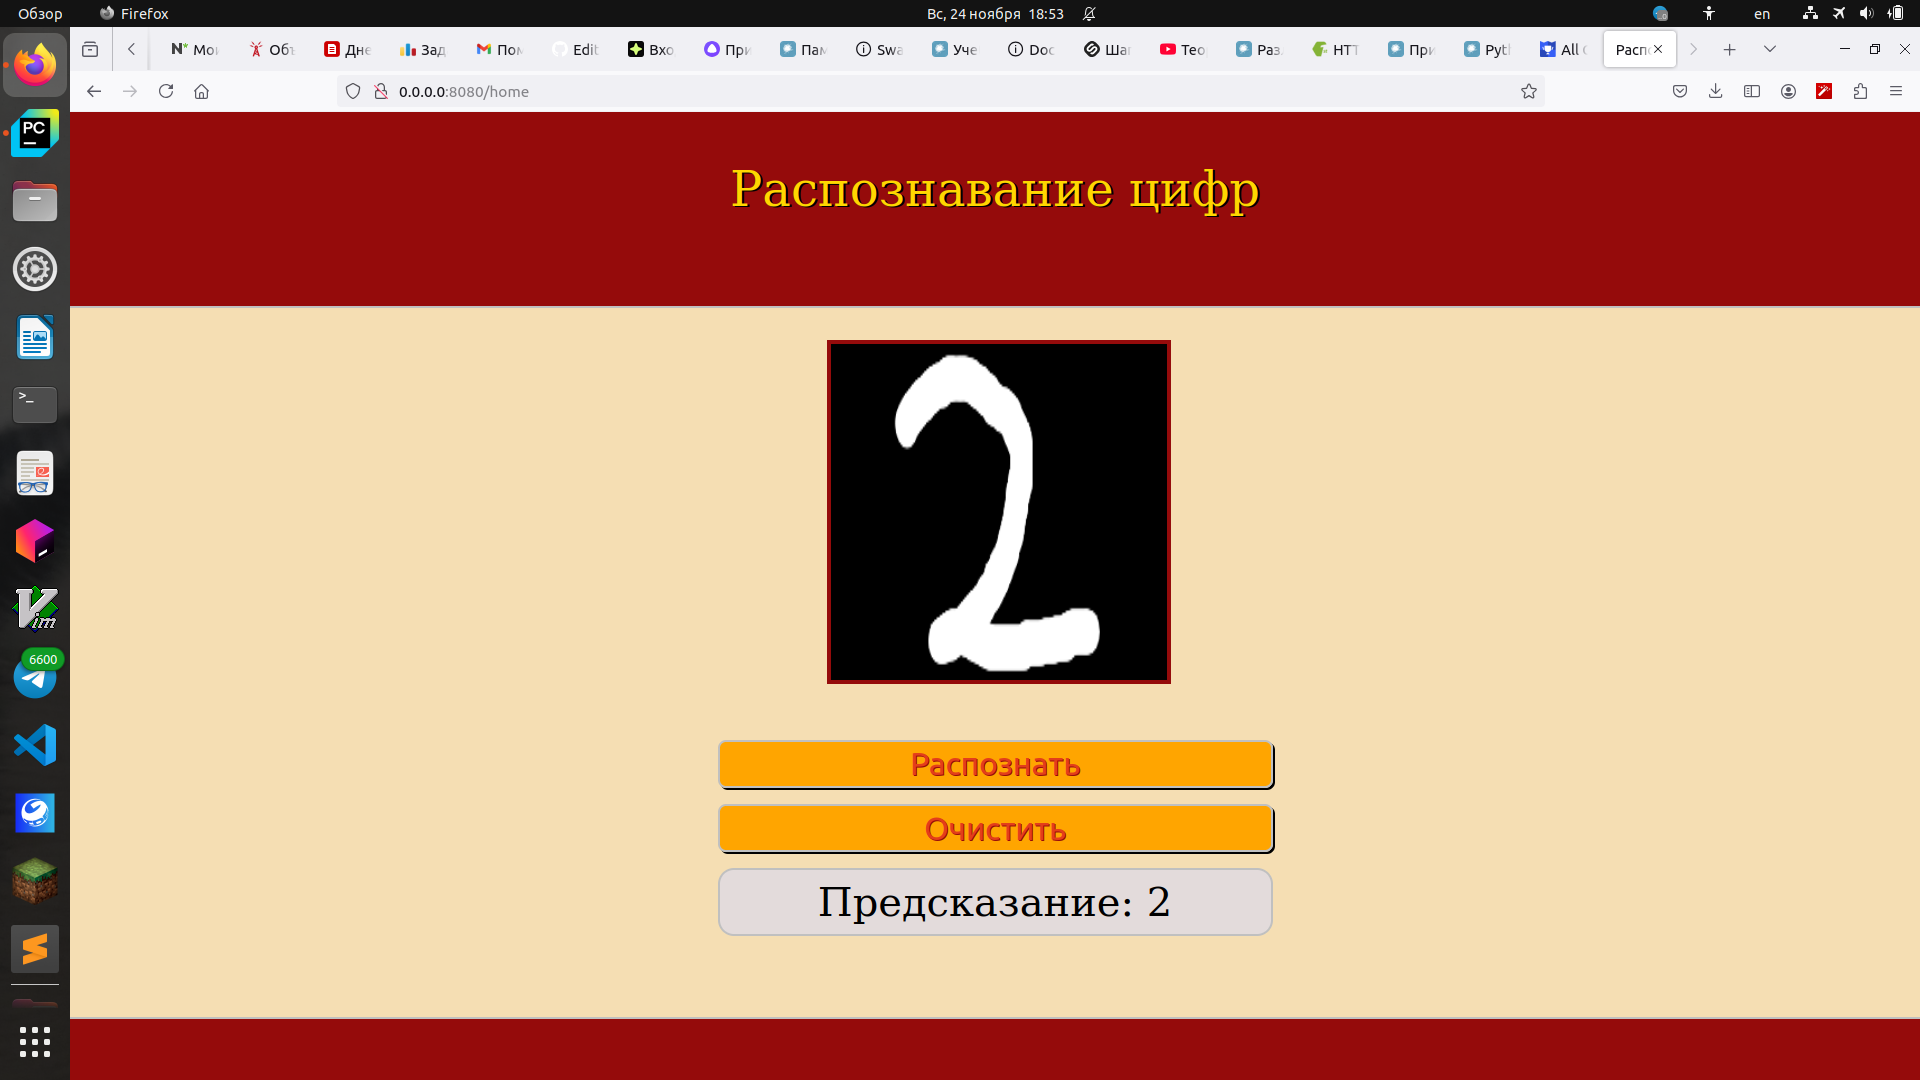
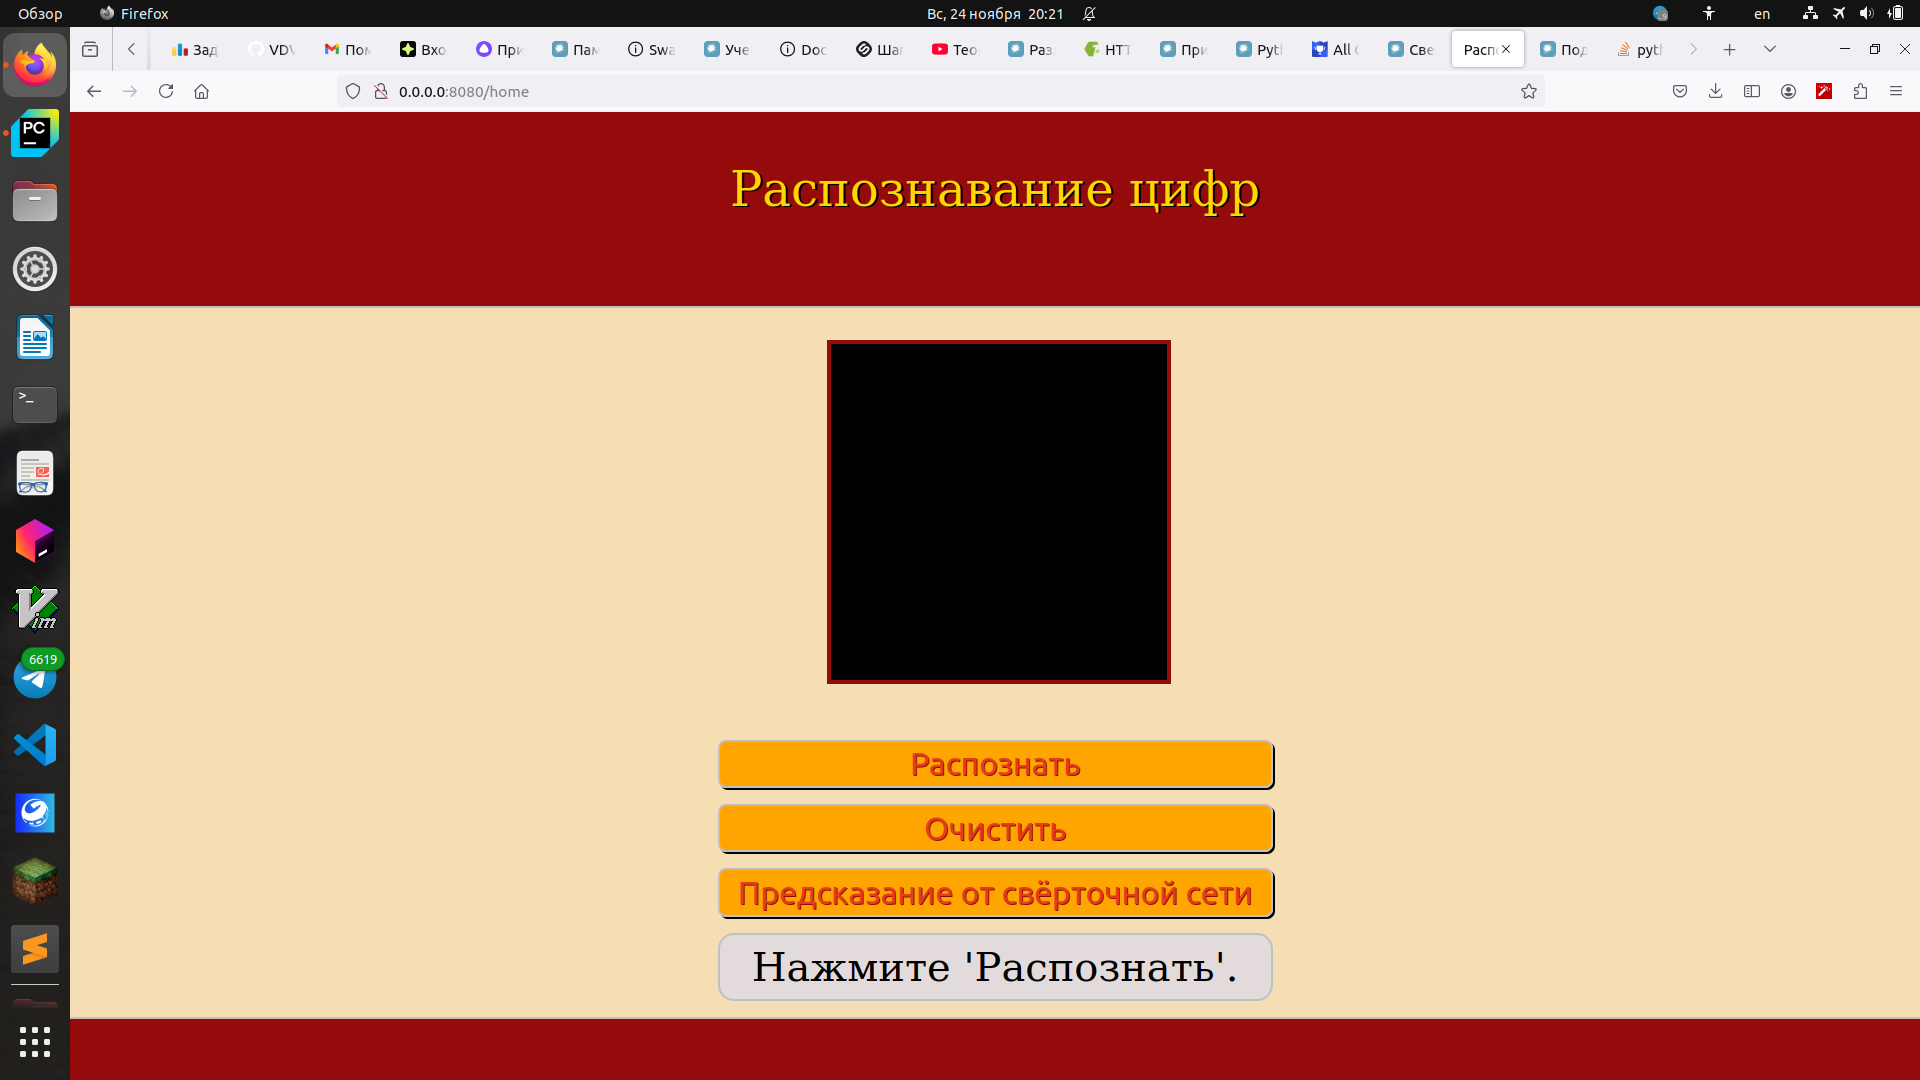
I have begin convolutional_digit_recognition.

diff --git a/code/examples/templates/digit_recognition.html b/code/examples/templates/digit_recognition.html
@@ -139,6 +139,7 @@
         <div>
             <button id="predict_button" class="canvas_button">Распознать</button>
             <button id="clear_button" class="canvas_button">Очистить</button>
+            <button id="convolutional_predict_button" class="canvas_button">Предсказание от свёрточной сети</button>
             <p id="prediction">Нажмите 'Распознать'.</p>
         </div>
     </section>
@@ -171,6 +172,7 @@ obj.canvas.addEventListener("mouseleave", (e) => {
 obj.canvas.addEventListener("mousemove", draw);
 document.getElementById("predict_button").addEventListener("click", predict);
 document.getElementById("clear_button").addEventListener("click", clear);
+document.getElementById("convolutional_predict_button").addEventListener("click", convolutional_predict);
 
 function draw(e) {
     if (obj.drawing) {
@@ -196,6 +198,25 @@ function predict() {
         formData.append("image", blob);
 
         fetch("/prediction", {
+            method: "POST",
+            body: formData,
+        })
+        .then(response => response.json())
+        .then(data => {
+            document.getElementById("prediction").innerText = "Предсказание: " + data.prediction;
+        })
+        .catch(error => {
+            console.error("Ошибка:", error);
+        });
+    });
+}
+
+function convolutional_predict() {
+    obj.canvas.toBlob((blob) => {
+        const formData = new FormData();
+        formData.append("image", blob);
+
+        fetch("/convolutional_prediction", {
             method: "POST",
             body: formData,
         })

diff --git a/code/examples/convolutional_digit_recognition.py b/code/examples/convolutional_digit_recognition.py
@@ -1,0 +1,111 @@
+import numpy as np
+
+import io
+
+from PIL import Image
+
+from pathlib import Path
+
+from keras.api.datasets import mnist
+from keras.api.utils import to_categorical
+from keras.api.models import Sequential, load_model
+from keras.api.layers import Input, Conv2D, MaxPooling2D, Flatten, Dense
+
+from RecognitionNeuroNetwork import RecognitionNeuroNetwork
+
+
+class ConvolutionalDigitRecognition(RecognitionNeuroNetwork):
+    def __init__(self, number_of_training: int = 5) -> None:
+        self.INPUT_SHAPE = (28, 28)                             # Размер изображения в пикселях.
+        self.OPTIMIZER = "adam"                                 # Функция оптимизации при обучении.
+        self.LOSS_FUNCTION = "categorical_crossentropy"  # Функция ошибки.
+        self.METRICS = ["accuracy"]                             # Метрики при обучении (для логирования).
+        self.SAVE_FILE = "convolutional_mnist_model.keras"      # Имя файла для сохранения модели.
+        self.TRAINING_MAX_VALUE: float = 255.0                  # Максимальное значение цвета у пикселя в входных данных.
+        self.BATCH_SIZE = 32                                    # Размер мини-батча для обучения
+
+        self.number_of_training = number_of_training
+        self.layers = [
+            Input(shape=(*self.INPUT_SHAPE, 1)),                    # Принимает данные на входе
+            Conv2D(32, (3, 3), activation='relu'),  # Применяет 32 фильтра 3 x 3 для получение признаков
+            MaxPooling2D((2, 2)),                                   # Выбирает максимальные значения в областях 2 x 2 уменьшая обьём данных
+            Conv2D(64, (3, 3), activation='relu'),  # Применяет 64 фильтра 3 x 3 извлекая более важные принаки
+            MaxPooling2D((2, 2)),                                   # Ещё одна свёртка данных
+            Flatten(),                                              # Преобразует матрицу в вектор для обработки полносвязными слоями
+            Dense(64, activation='relu'),                      # Обрабатывет вектор выделяя итоговые признаки
+            Dense(10, activation='relu')                       # Приводит к формату выходных данных
+        ]
+        #   WILL BE USED
+        self.x_train = None
+        self.x_test = None
+        self.y_train = None
+        self.x_test = None
+        self.model = None
+
+    def _prepare_data(self) -> None:
+        """
+        Подготавливает данные для обучения.
+        """
+        (x_train, y_train), (x_test, y_test) = mnist.load_data()
+        #  mnist - стандартный набор данных из keras для обучения нейросетей
+        self.x_train = x_train.reshape((x_train.shape[0], *self.INPUT_SHAPE, 1))
+        self.x_test = x_test.reshape((x_test.shape[0], *self.INPUT_SHAPE, 1))
+        self.y_train = to_categorical(y_train)
+        self.y_test = to_categorical(y_test)
+
+        self.x_train = self.x_train.astype('float32') / self.TRAINING_MAX_VALUE
+        self.x_test = self.x_test.astype('float32') / self.TRAINING_MAX_VALUE
+
+
+    def _create_model(self):
+        """
+        Компилирует созданную модель нейросети.
+        """
+        return Sequential(self.layers)
+
+    def _compile_model(self, model: Sequential) -> Sequential:
+        """
+        Компилирует созданную модель нейросети.
+        """
+        model.compile(optimizer=self.OPTIMIZER, loss=self.LOSS_FUNCTION, metrics=self.METRICS)
+        return model
+
+    def train(self) -> None:
+        """
+        Создаёт, компилирует, обучает и сохраняет модель нейросети.
+        """
+        if Path(__file__).with_name(self.SAVE_FILE).exists():
+            self.model = load_model(filepath=self.SAVE_FILE)
+            return
+
+        self._prepare_data()
+        self.model = self._compile_model(
+            self._create_model()
+        )
+        self.model.fit(
+            self.x_train,
+            self.y_train,
+            epochs=self.number_of_training,
+            validation_data=(self.x_test, self.y_test),
+            batch_size=self.BATCH_SIZE,
+            verbose=1
+        )
+        self.model.save(self.SAVE_FILE)
+
+    def apply(self, data: bytes, **kwargs) -> int:
+        """
+        Применяет модель нейросети к данным.
+        В случае отсутствия модели вызывает train().
+        """
+        if not self.model:
+            self.train()
+
+        predictions = self.model.predict(
+            np.array(
+                Image.open(io.BytesIO(data))
+                    .convert("L")
+                    .resize(self.INPUT_SHAPE)
+            ).reshape((1, *self.INPUT_SHAPE, 1)) / self.TRAINING_MAX_VALUE
+        )
+
+        return int(np.argmax(predictions))

diff --git a/code/examples/digit_recognition.py b/code/examples/digit_recognition.py
@@ -1,23 +1,21 @@
 import io
+
 from pathlib import Path
 
 import numpy as np
-import uvicorn
+
 from PIL import Image
-from fastapi import Form, File
+
 from keras.api.datasets import mnist
 from keras.api.layers import Dense, Flatten
-from keras.api.models import Sequential
-from keras.api.models import load_model
+from keras.api.models import Sequential, load_model
 from keras.api.utils import to_categorical
-from fastapi.responses import HTMLResponse, JSONResponse
 
-from Perceptron import Perceptron, Layer
-from server import Server
+from RecognitionNeuroNetwork import RecognitionNeuroNetwork, Layer
 
 # Воспользовался https://github.com/blaze-arch/MNIST-Classifier/blob/main/templates
 
-class DigitRecognition(Perceptron):
+class DigitRecognition(RecognitionNeuroNetwork):
     def __init__(self,
                  number_of_training: int = 30,
                  layers: tuple[Layer] = (
@@ -106,26 +104,3 @@ class DigitRecognition(Perceptron):
         )
 
         return int(np.argmax(predictions))
-
-
-class DBInClass:
-    def __init__(self):
-        self.model = DigitRecognition()
-
-db = DBInClass()
-
-class WebUI(metaclass=Server):
-    class Post:
-        @staticmethod
-        def prediction(image: bytes = File()):
-            return JSONResponse({"prediction": db.model.apply(image)}, status_code=200)
-
-    @staticmethod
-    def home():
-        with open("templates/digit_recognition.html") as file:
-            db.model.train()
-            return HTMLResponse(file.read(), status_code=200)
-
-
-if __name__ == "__main__":
-    uvicorn.run(app=WebUI.app, host="0.0.0.0", port=8080)

diff --git a/code/examples/digit_recognition_api.py b/code/examples/digit_recognition_api.py
@@ -1,0 +1,40 @@
+import uvicorn
+
+from fastapi.responses import JSONResponse, HTMLResponse
+from fastapi import File
+
+from code.examples.server import Server
+
+from digit_recognition import DigitRecognition
+
+from convolutional_digit_recognition import ConvolutionalDigitRecognition
+
+
+class DBClass:
+    def __init__(self):
+        self.digit_recognition = DigitRecognition()
+        self.convolutional_digit_recognition = ConvolutionalDigitRecognition()
+
+db = DBClass()
+
+
+class WebUI(metaclass=Server):
+    class Post:
+        @staticmethod
+        def prediction(image: bytes = File()):
+            return JSONResponse({"prediction": db.digit_recognition.apply(image)}, status_code=200)
+
+        @staticmethod
+        def convolutional_prediction(image: bytes = File()):
+            return JSONResponse({"prediction": db.convolutional_digit_recognition.apply(image)}, status_code=200)
+
+    @staticmethod
+    def home():
+        with open("templates/digit_recognition.html") as file:
+            db.digit_recognition.train()
+            db.convolutional_digit_recognition.train()
+            return HTMLResponse(file.read(), status_code=200)
+
+
+if __name__ == "__main__":
+    uvicorn.run(app=WebUI.app, host="0.0.0.0", port=8080)

diff --git a/code/examples/RecognitionNeuroNetwork.py b/code/examples/RecognitionNeuroNetwork.py
@@ -1,7 +1,7 @@
 from abc import ABCMeta
 
 
-class Perceptron(metaclass=ABCMeta):
+class RecognitionNeuroNetwork(metaclass=ABCMeta):
     def train(self, *args, **kwargs):
         raise NotImplementedError
 
